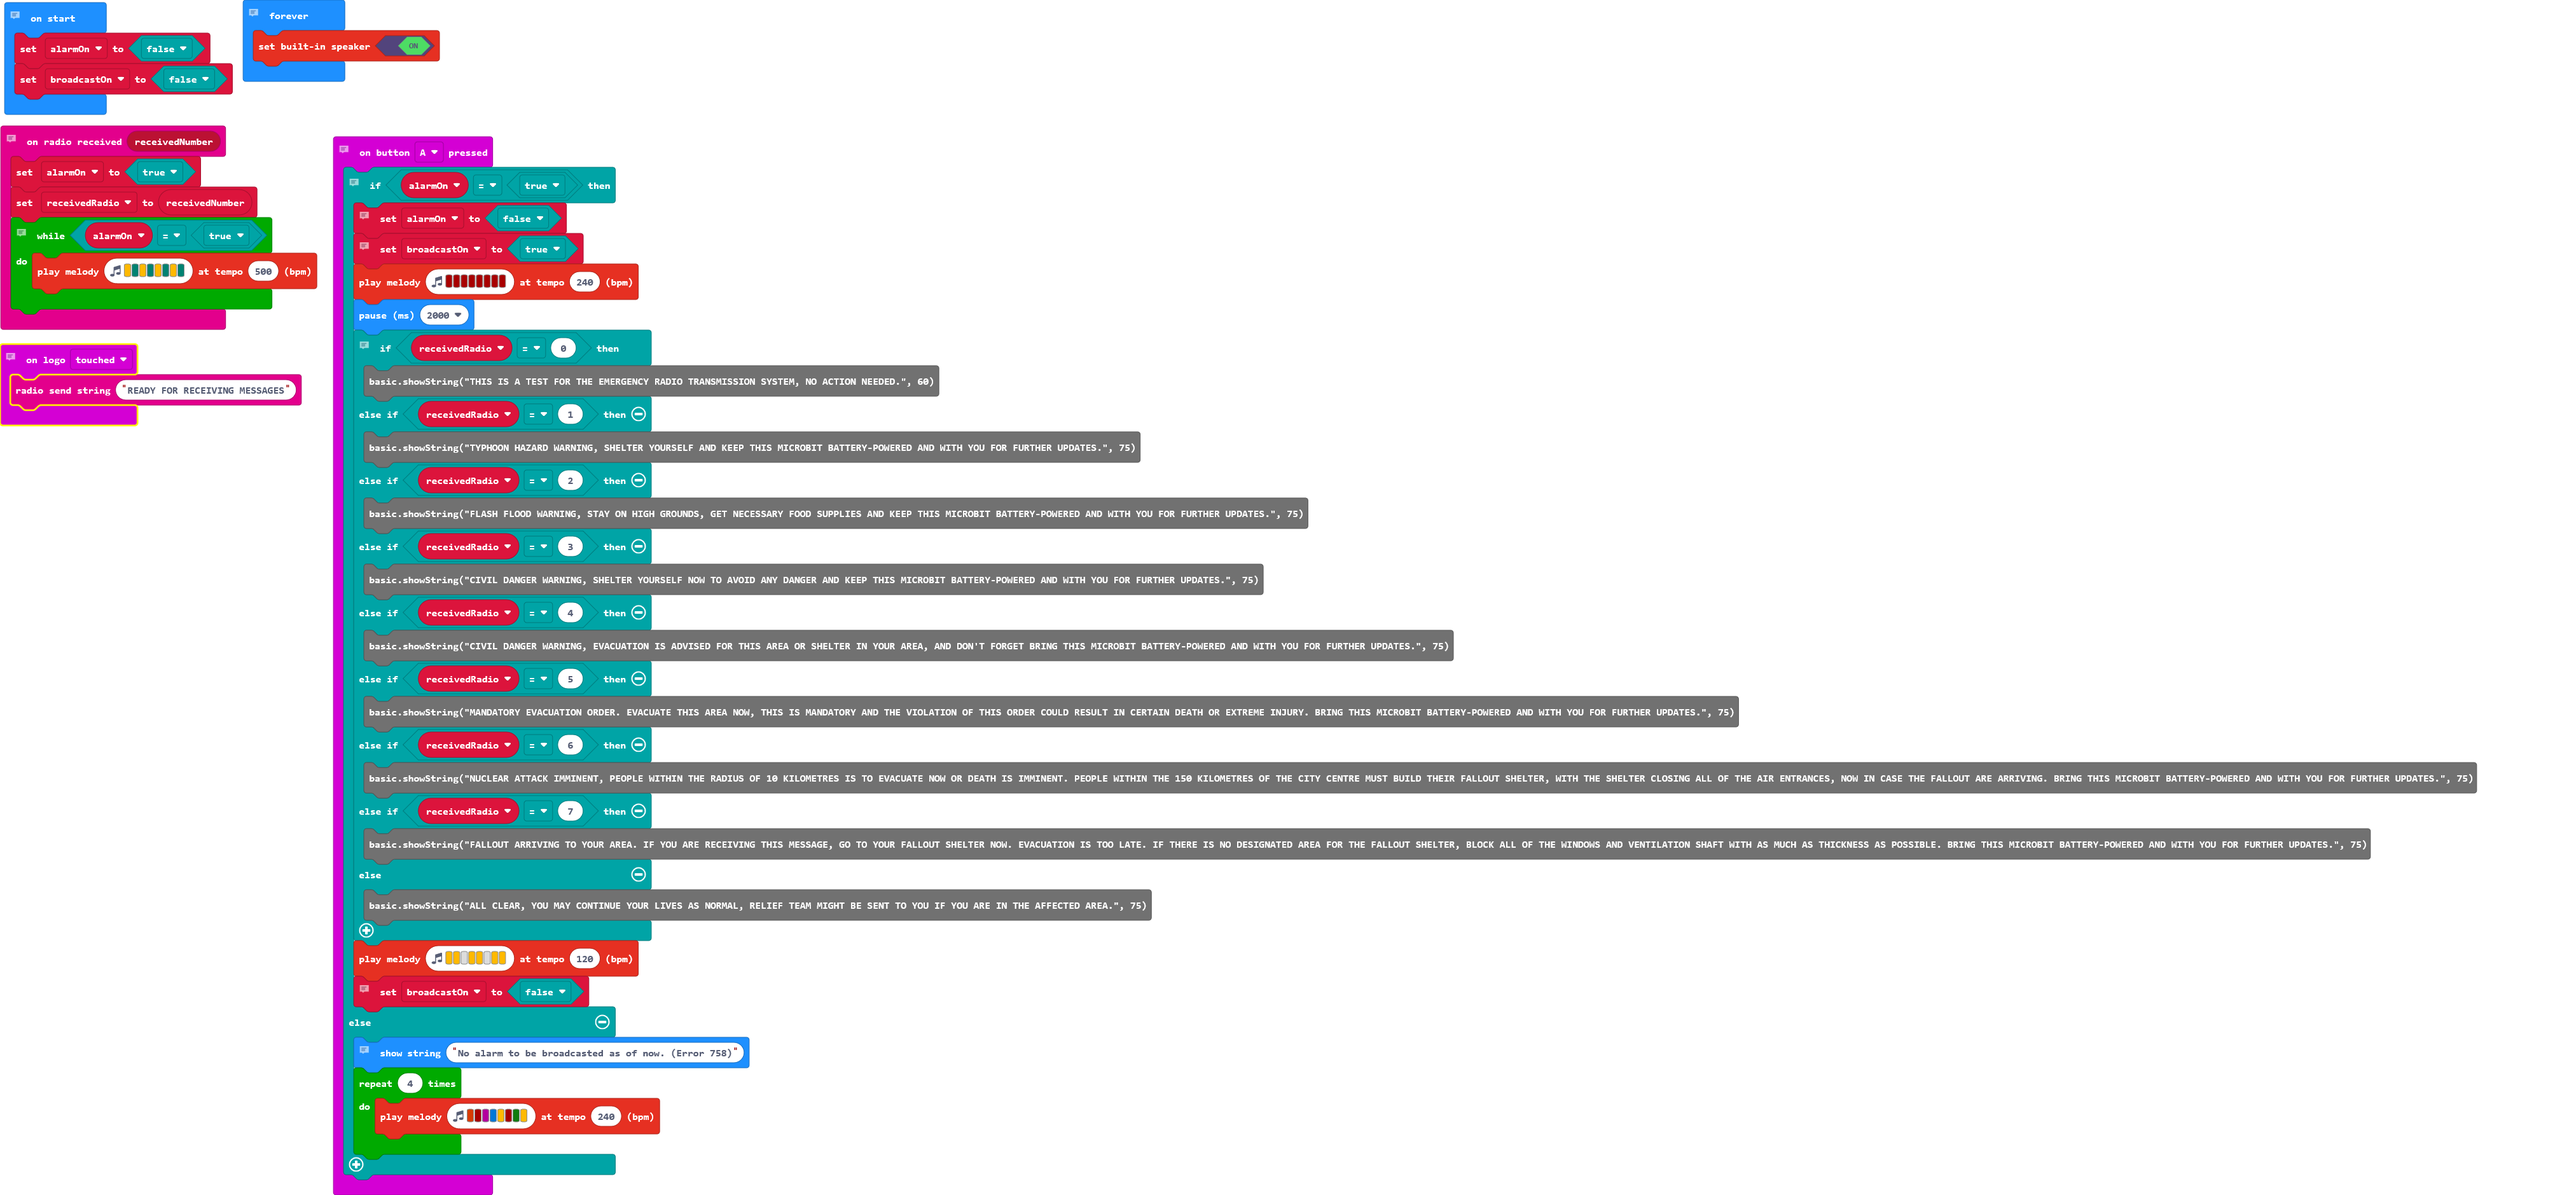
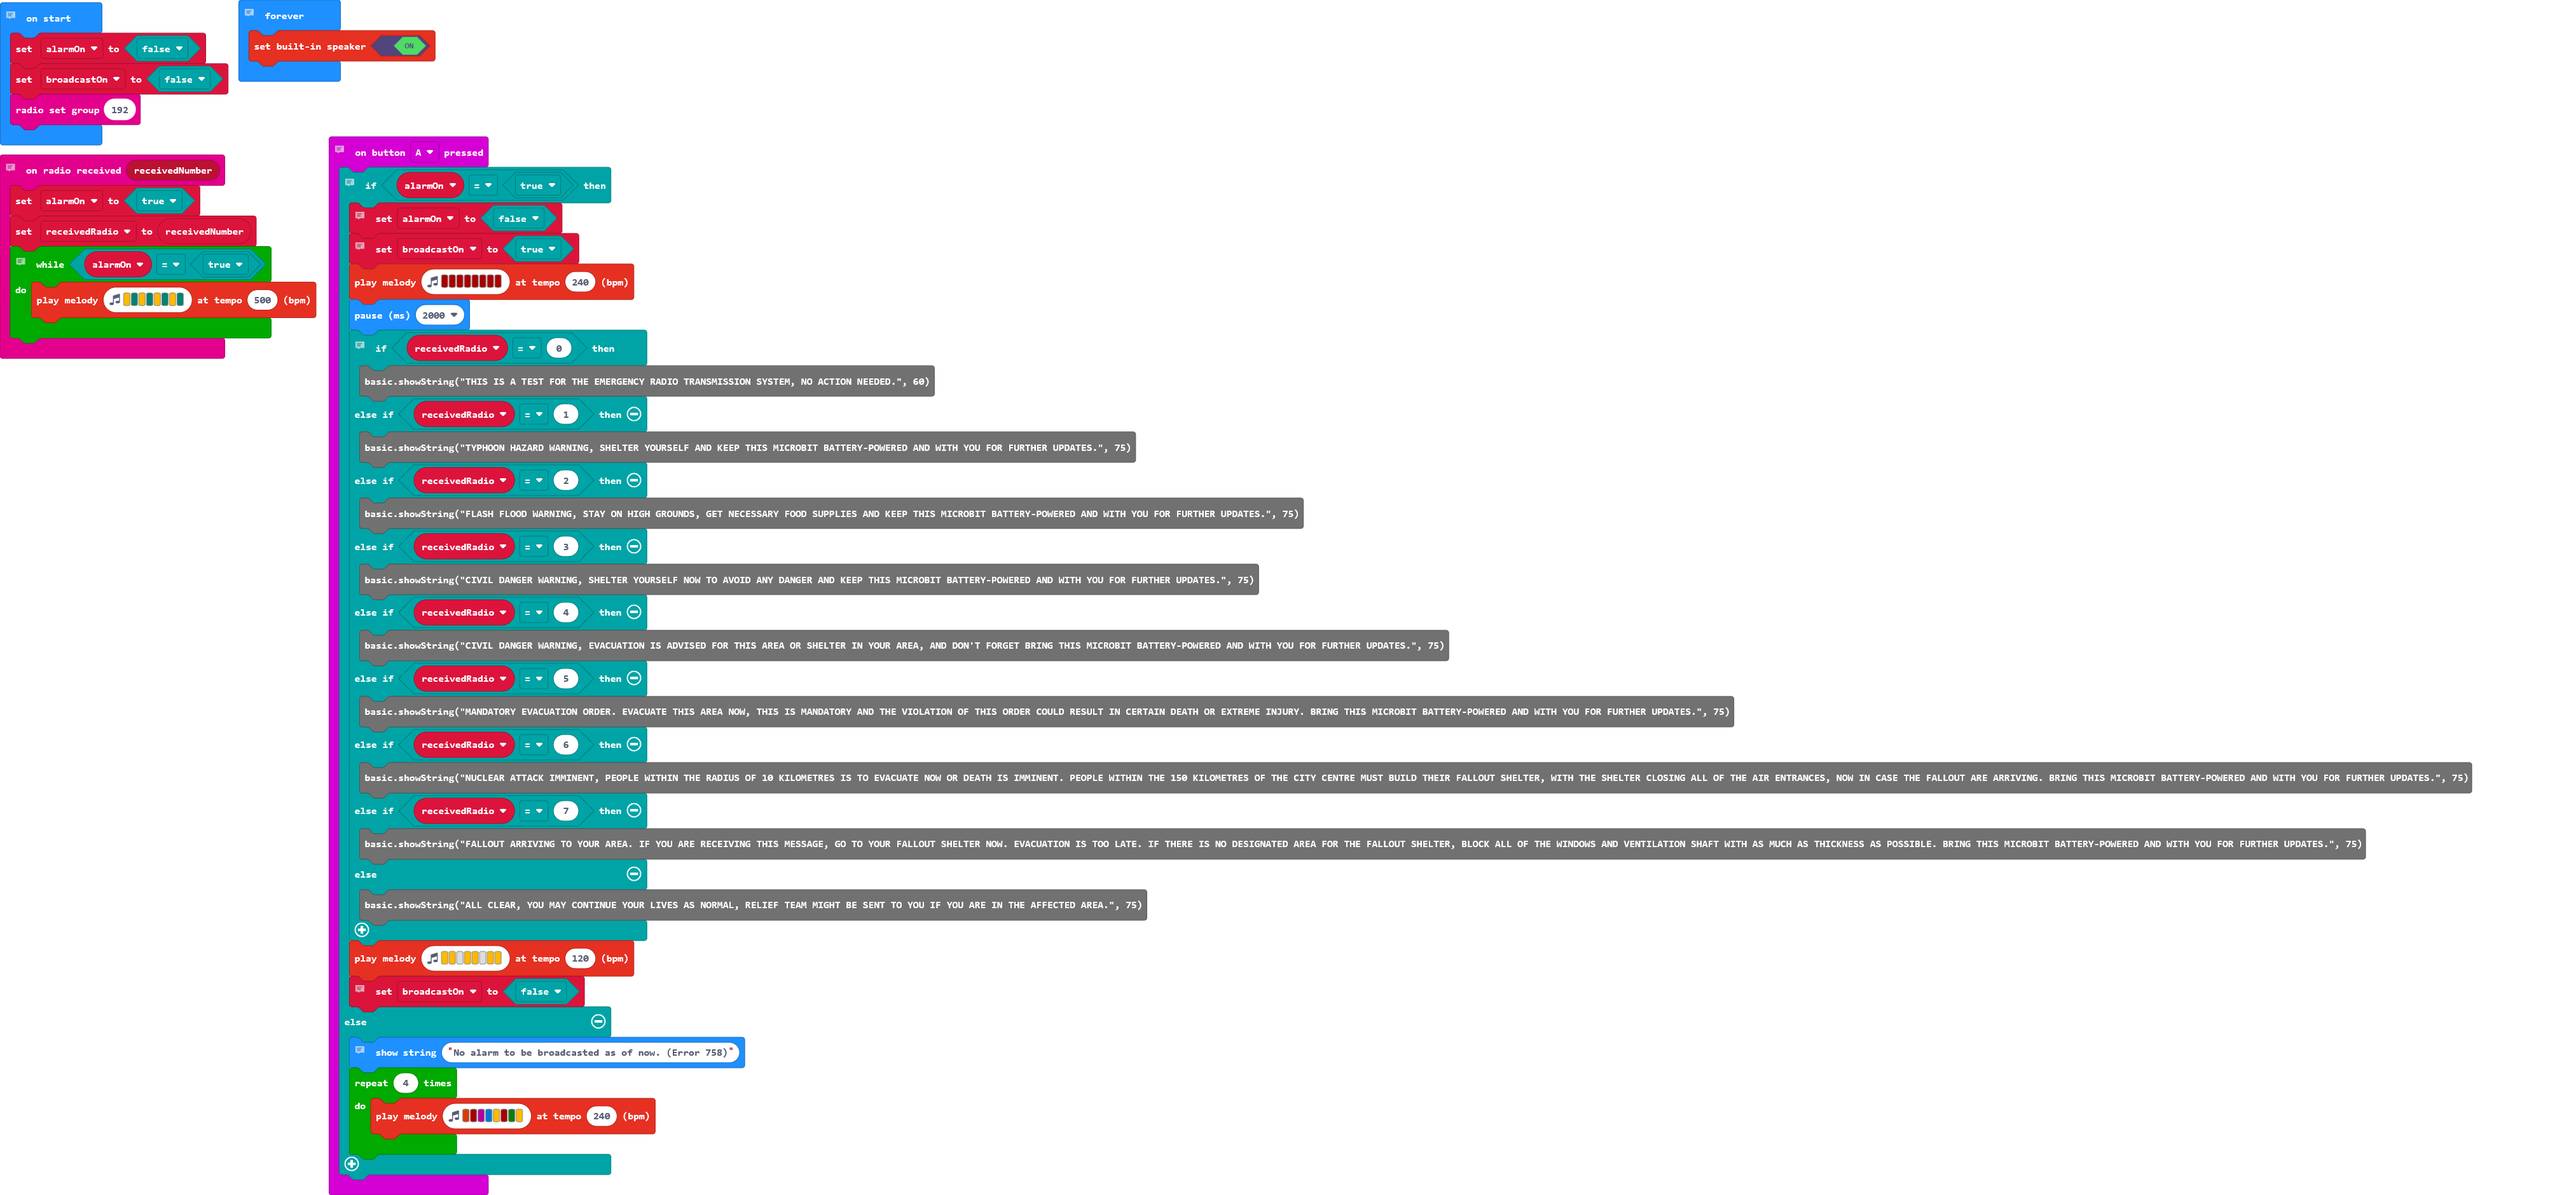
with radio band.

Changed region(s): [[0.0, 0.0, 0.748, 0.9878], [0.3116, 0.3704, 0.4051, 0.4321], [0.748, 0.6482, 0.8103, 0.71]]

diff --git a/main.ts b/main.ts
@@ -48,16 +48,13 @@ input.onButtonPressed(Button.A, function () {
         }
     }
 })
-// This is to open the radio antennas to the transmissions, DO THIS BEFORE THE TRANSMITTER MICRO:BIT
-input.onLogoEvent(TouchButtonEvent.Touched, function () {
-    radio.sendString("READY FOR RECEIVING MESSAGES")
-})
 // This is the start sequence that sets all of the transmissions state into the boolean.
 let receivedRadio = 0
 let broadcastOn = false
 let alarmOn = false
 alarmOn = false
 broadcastOn = false
+radio.setGroup(192)
 // Specific to the micro:bit version 2
 basic.forever(function () {
     music.setBuiltInSpeakerEnabled(true)
